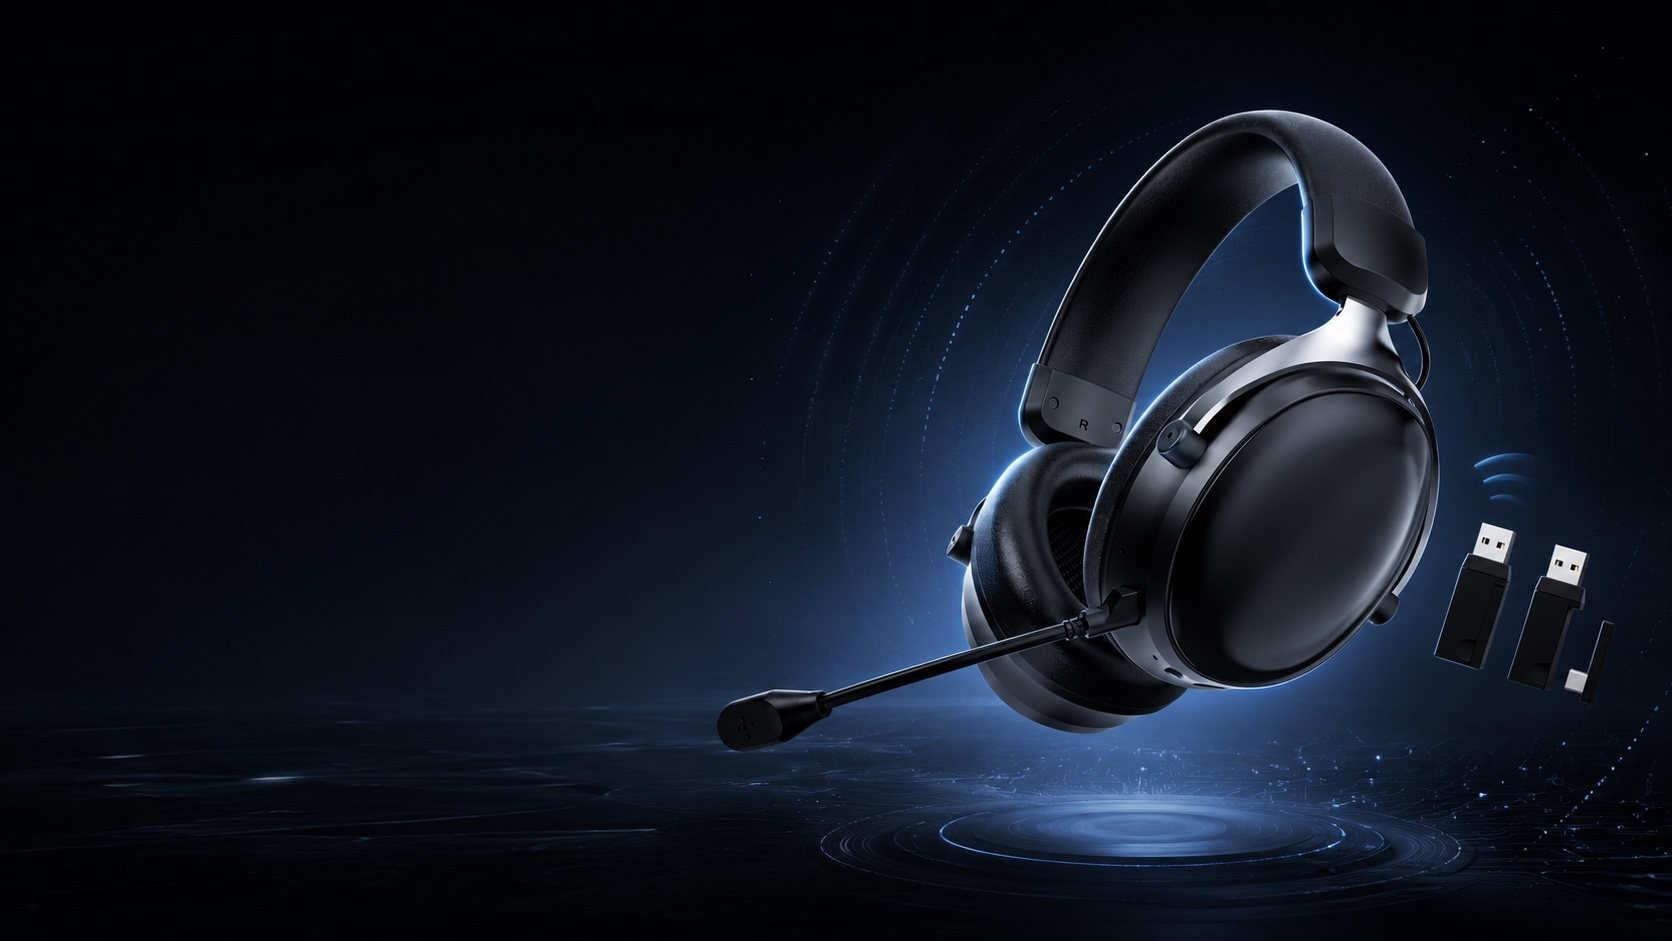
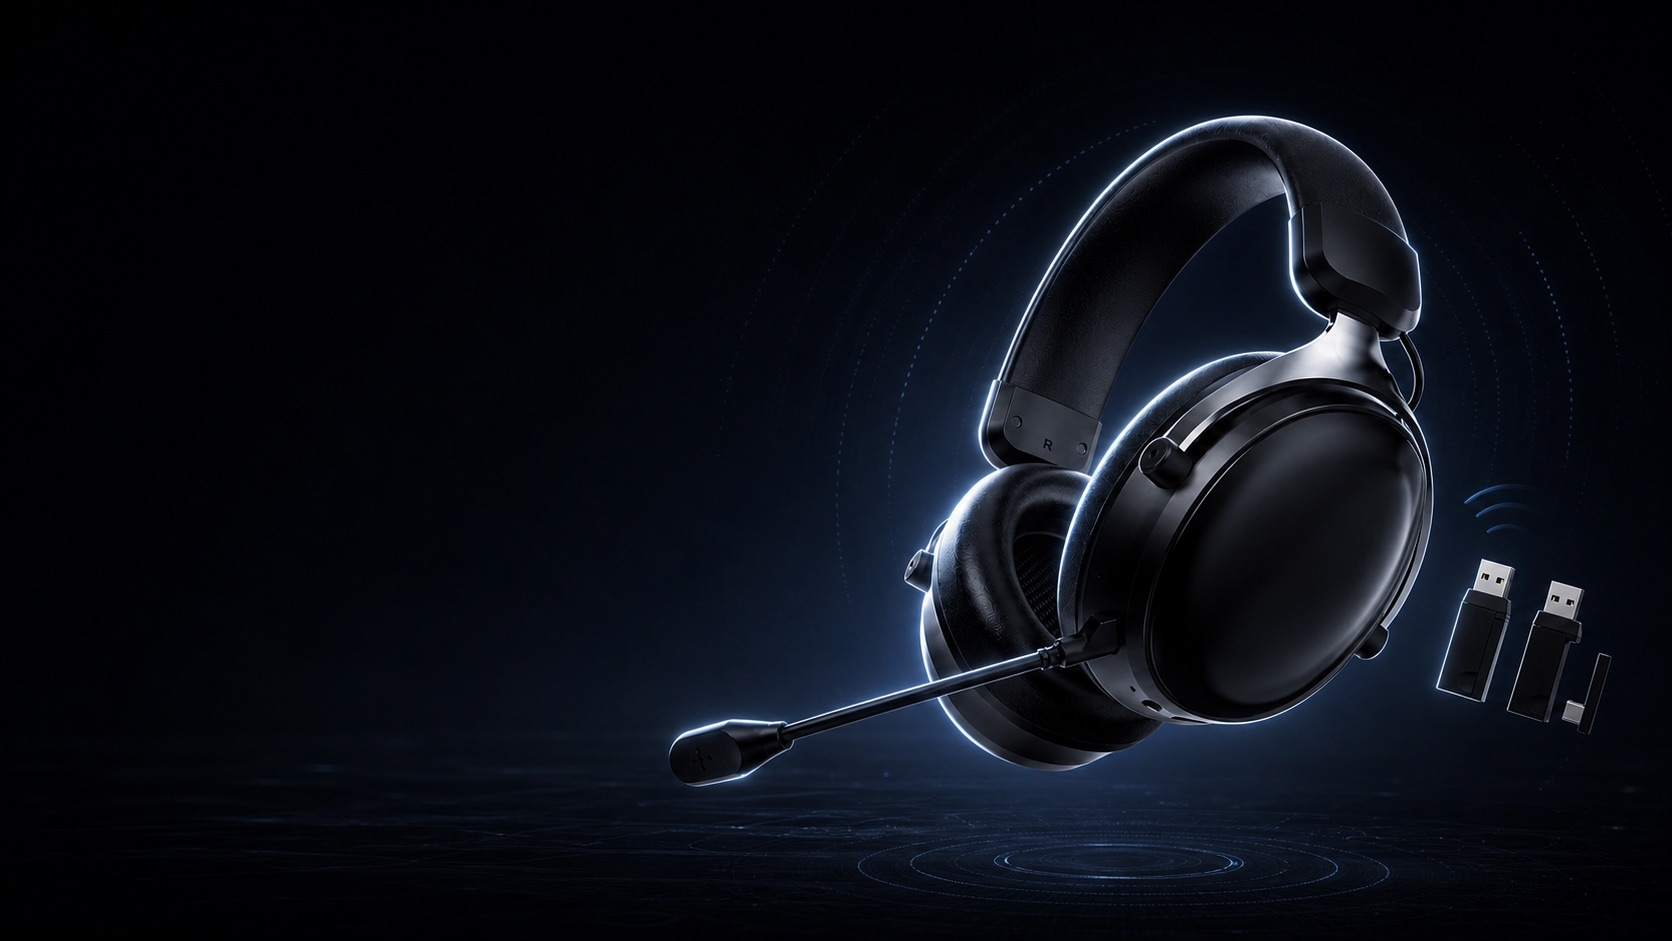
Refine homepage hero product lighting

diff --git a/styles.css b/styles.css
@@ -4331,6 +4331,7 @@ h2 {
 .brand-hero .hero-media {
   background: transparent !important;
   box-shadow: none !important;
+  filter: brightness(1.12) contrast(1.04) !important;
   height: 100% !important;
   inset: 0 !important;
   object-fit: cover !important;
@@ -4344,8 +4345,8 @@ h2 {
 
 .brand-hero .hero-shade {
   background:
-    linear-gradient(90deg, rgba(8, 10, 11, 1) 0%, rgba(8, 10, 11, 0.96) 34%, rgba(8, 10, 11, 0.42) 58%, rgba(8, 10, 11, 0.04) 100%),
-    linear-gradient(180deg, rgba(8, 10, 11, 0.04) 0%, rgba(8, 10, 11, 0.68) 100%) !important;
+    linear-gradient(90deg, rgba(8, 10, 11, 1) 0%, rgba(8, 10, 11, 0.96) 34%, rgba(8, 10, 11, 0.68) 48%, rgba(8, 10, 11, 0.18) 64%, rgba(8, 10, 11, 0.02) 100%),
+    linear-gradient(180deg, rgba(8, 10, 11, 0.02) 0%, rgba(8, 10, 11, 0.56) 100%) !important;
 }
 
 .brand-hero .hero-copy {
